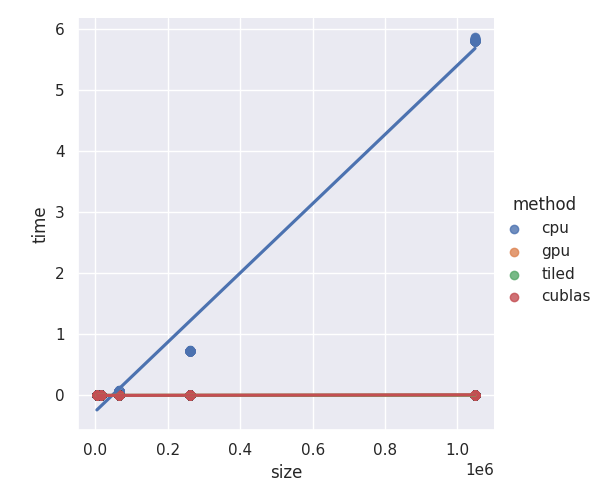
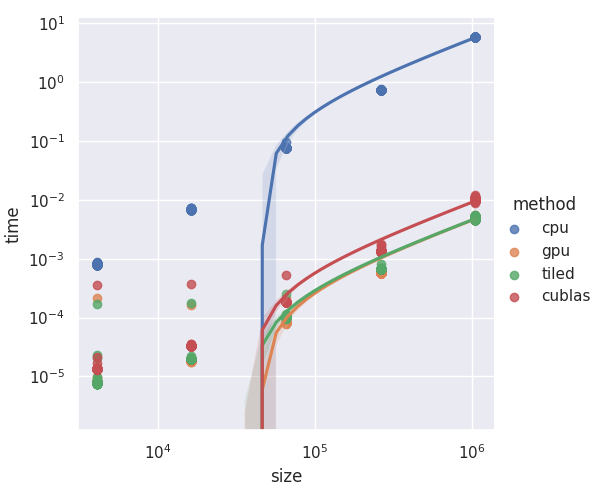
change graph scales

diff --git a/render_data.py b/render_data.py
@@ -37,7 +37,7 @@ times  = pd.melt(times, id_vars=['run', 'size'], var_name='method', value_name='
 print(times)
 
 # Create graph
-plot = sns.lmplot(data=times, x='size', y='time', hue='method')
+plot = sns.lmplot(data=times, x='size', y='time', hue='method').set(xscale='log', yscale='log')
 
 # Export graph
 plt.savefig("timers.png")
